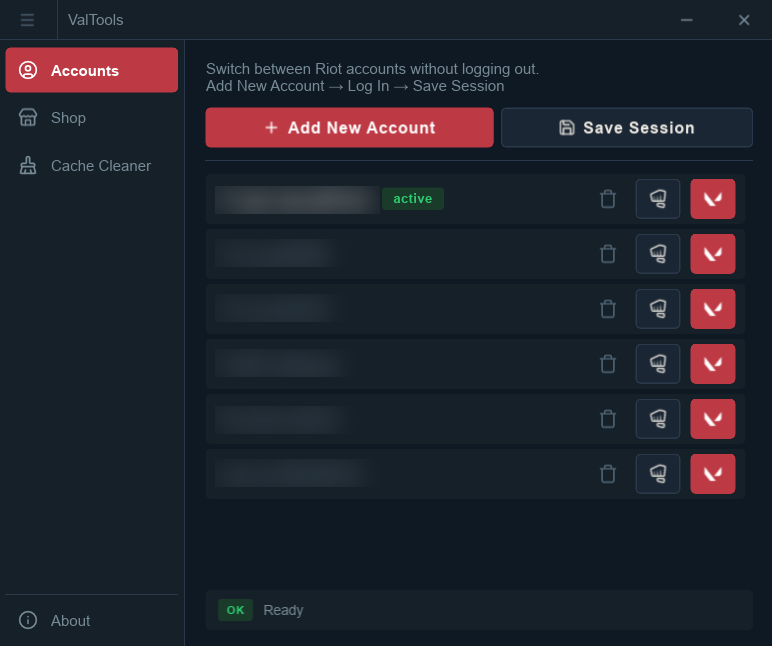
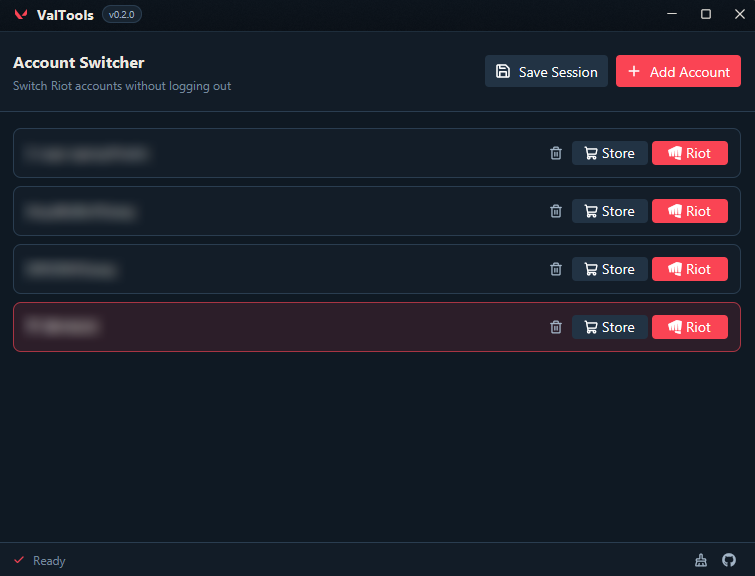
updated images

diff --git a/README.md b/README.md
@@ -5,21 +5,23 @@
 [![Release Status](https://img.shields.io/github/actions/workflow/status/clitic/valtools/release.yml?logo=github&style=flat-square)](https://github.com/clitic/valtools/actions)
 [![Repo Size](https://img.shields.io/github/repo-size/clitic/valtools?logo=github&style=flat-square)](https://github.com/clitic/valtools)
 
-`ValTools` is a lightweight [Valorant](https://playvalorant.com) related toolkit for Windows. Switch between multiple Riot accounts without logging out, view your daily shop offers, and clean cache files - all from a single, clean desktop app built with Rust and Slint.
+`ValTools` is a lightweight [Valorant](https://playvalorant.com) toolkit for Windows. Switch between multiple Riot accounts without logging out, inspect your daily store offers, and clean temporary cache files — all from a clean desktop app built with Rust and GPUI.
 
 <div align="center">
   <img src="https://raw.githubusercontent.com/clitic/valtools/refs/heads/main/images/showcase.png" width="500px">
   <br>
-  <a href="https://github.com/clitic/valtools/releases/download/0.1.1/valtools-0.1.1-x86_64-pc-windows-msvc.zip">
+  <img src="https://raw.githubusercontent.com/clitic/valtools/refs/heads/main/images/store.png" width="500px">
+  <br><br>
+  <a href="https://github.com/clitic/valtools/releases/download/0.2.0/valtools-0.2.0-x86_64-pc-windows-msvc.zip">
     <img src="https://raw.githubusercontent.com/clitic/valtools/refs/heads/main/images/download.svg" alt="Download" height="40px">
   </a>
 </div>
 
 ## Features
 
-- **Account Switching**: Save and switch between multiple Riot accounts instantly. No need to re-enter credentials.
-- **Daily Shop Viewer**: Check your Valorant daily store offers across all saved accounts with skin images and VP prices.
-- **Cache Cleaner**: Browse and selectively clean Valorant cache directories to free up disk space.
+- **Account Switching**: Save your current Riot session or add new accounts, then switch between them and launch Riot Client without re-entering credentials.
+- **Daily Shop Viewer**: Check Valorant daily store offers for any saved account with skin previews, tier badges, VP/RP balances, reset countdown, and one-click YouTube skin search.
+- **Cache Cleaner**: Inspect the size of `%LOCALAPPDATA%\VALORANT` and clear temporary shader caches and downloaded match replays to free up disk space while keeping saved sessions intact.
 
 ## License
 
